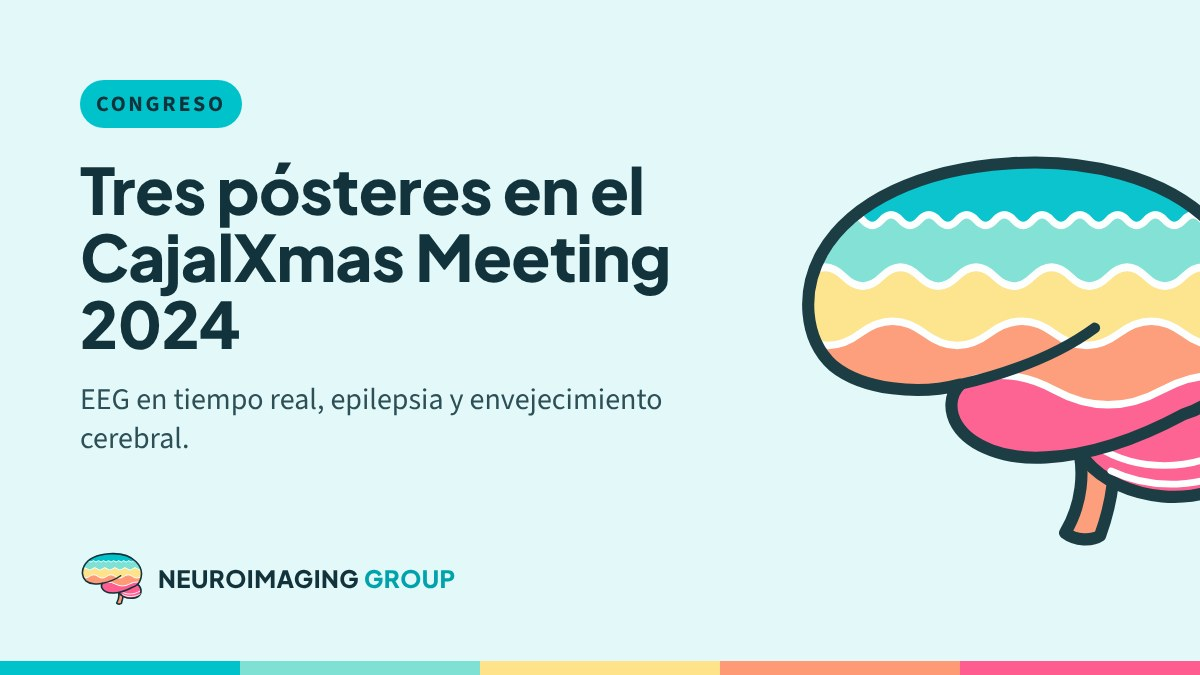
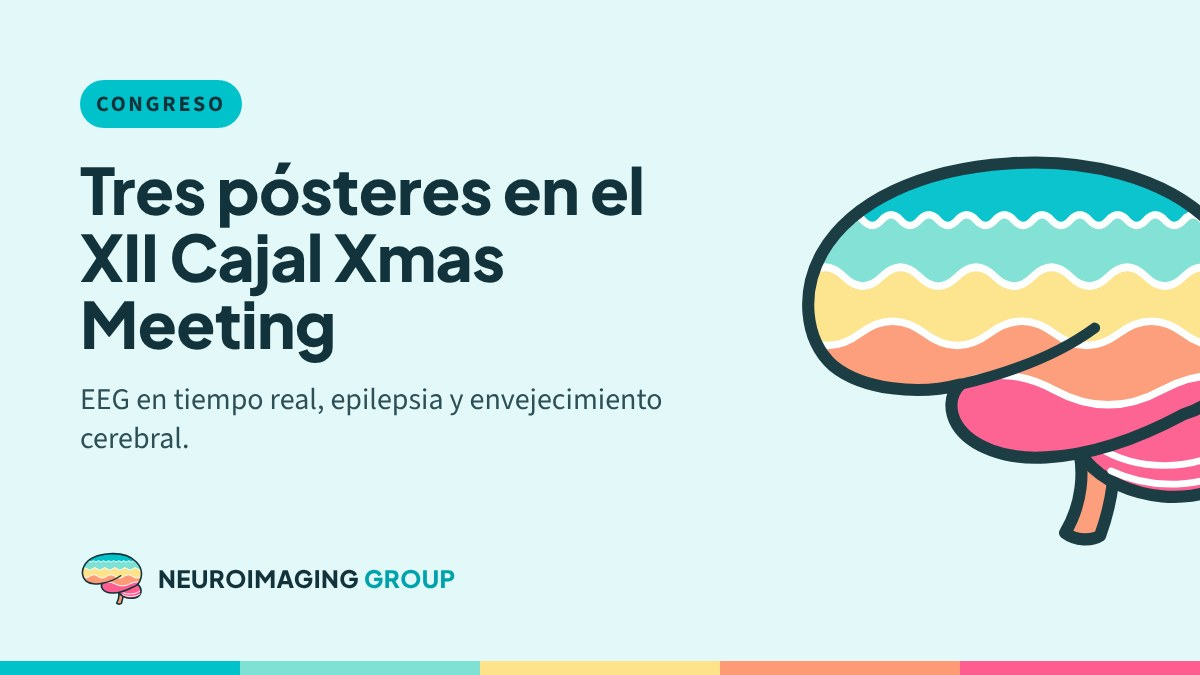
News: CajalXmas 2024 with poster titles and authors; new CajalXmas 2025 post
Claude-Session: https://claude.ai/code/session_016qHx7xJtVuA2p8MXZK7uaB

Changed region(s): [[0.0617, 0.3422, 0.555, 0.56]]

diff --git a/_posts/2024-12-18-cajalxmas-meeting.md b/_posts/2024-12-18-cajalxmas-meeting.md
@@ -1,14 +1,14 @@
 ---
-title: "Tres pósteres del grupo en el CajalXmas Meeting"
+title: "Tres pósteres del grupo en el XII Cajal Xmas Meeting"
 date: 2024-12-18
 image: /assets/img/news/2024-12-18-cajalxmas.jpg
 date_label: "18–19 December 2024"
 ---
 
-Los estudiantes del grupo presentan tres pósteres en el CajalXmas Meeting 2024 del Instituto Cajal.
+El grupo presenta tres pósteres en el XII Cajal Xmas Meeting del Instituto Cajal, que Guiomar Niso coorganiza junto con el primer Concurso de Neurociencia y Arte.
 
-**EEG en tiempo real para control robótico y neurofeedback.** Raúl García Luengo y Rodrigo Quispe Ávila presentan una plataforma que combina EEG en tiempo real (Neurosity Crown), aprendizaje profundo y una interfaz sencilla para controlar dispositivos externos, como un brazo robótico, y para entrenamiento cognitivo. [Póster](https://drive.google.com/file/d/1PVQHxD7imF0ee7hQnYQVCrI2GJHi4qg6/view?usp=drive_link)
+**Real-Time EEG for robot control and neurofeedback applications.** García Luengo R., Quispe Ávila R., Niso O., Niso G. Una plataforma que combina EEG en tiempo real, aprendizaje profundo y una interfaz sencilla para controlar dispositivos externos, como un brazo robótico, y para entrenamiento cognitivo. [Póster](https://drive.google.com/file/d/1PVQHxD7imF0ee7hQnYQVCrI2GJHi4qg6/view?usp=drive_link)
 
-**Oscilaciones de alta frecuencia como biomarcador de epilepsia.** Cristina Salinas y Marta Navarro, con Rafael Toledano y Paloma Parra (Hospital Ruber Internacional), muestran que las oscilaciones de alta frecuencia (HFO) son más frecuentes en las puntas interictales clínicamente relevantes y mejoran la localización de la zona de inicio de las crisis. [Póster](https://drive.google.com/file/d/1rytJx6vV3-m8JDYfj7IE7CvmNbevAS81/view?usp=drive_link)
+**Detection of high frequency oscillations correlated with interictal spikes as a biomarker of epilepsy.** Salinas C., Navarro M., Toledano R., Parra P., Niso G. Las oscilaciones de alta frecuencia (HFO) son más frecuentes en las puntas interictales clínicamente relevantes y mejoran la localización de la zona de inicio de las crisis. [Póster](https://drive.google.com/file/d/1rytJx6vV3-m8JDYfj7IE7CvmNbevAS81/view?usp=drive_link)
 
-**EEG del cerebro que envejece y enfermedad de Alzheimer.** El análisis de la potencia espectral y la dimensión fractal del EEG muestra frecuencias más lentas en pacientes con Alzheimer y más irregularidad con la edad, dos posibles biomarcadores accesibles y no invasivos. [Póster](https://drive.google.com/file/d/1B8oeg2jVg8Fbd0ObqnZw3BnwF8bg3QW_/view?usp=drive_link)
+**Characterizing brain activity in aging and Alzheimer's Disease: EEG spectral and fractal analysis.** Díaz C., Rupérez P., Martín del Campo M., Demirkaya B., Niso G. El EEG muestra frecuencias más lentas en pacientes con alzhéimer y más irregularidad con la edad, dos posibles biomarcadores accesibles y no invasivos. [Póster](https://drive.google.com/file/d/1B8oeg2jVg8Fbd0ObqnZw3BnwF8bg3QW_/view?usp=drive_link)

diff --git a/_posts/2025-12-17-cajalxmas-meeting-2025.md b/_posts/2025-12-17-cajalxmas-meeting-2025.md
@@ -1,0 +1,18 @@
+---
+title: "Cinco pósteres del grupo en el XIII Cajal Xmas Meeting"
+date: 2025-12-17
+image: /assets/img/news/2025-12-17-cajalxmas.jpg
+date_label: "17–18 December 2025"
+---
+
+El grupo presenta cinco pósteres en el XIII Cajal Xmas Meeting, el primero celebrado en el Centro de Neurociencias Cajal. Guiomar Niso coorganiza el encuentro y el II Certamen de Neurociencia y Arte.
+
+**Development of a reproducible pipeline for analysis of resting-state EEG data.** López N., Reina J., Martínez N., Niso G.
+
+**Motion-related artifacts in wireless EEG: characterizing auditory oddball ERPs with the Neurosity CROWN across posture and movement conditions.** Ponce J.P., Obeso I., Niso G.
+
+**Habitual inhibitory control: behavioural and EEG evidence.** Sobrio L., Navarro M., Obeso I., Niso G.
+
+**Automatic detection of high-frequency oscillations and interictal epileptiform discharges in drug-resistant epilepsy patients.** Martín Díez D., Salinas C., Toledano R., Niso G.
+
+**EEG-based brain clocks for healthy aging: spectral characterization with an Alzheimer's disease comparison and plasma proteomics.** Reina J., López N., dos Santos Brandão Q., Pignatelli J., Niso G.
